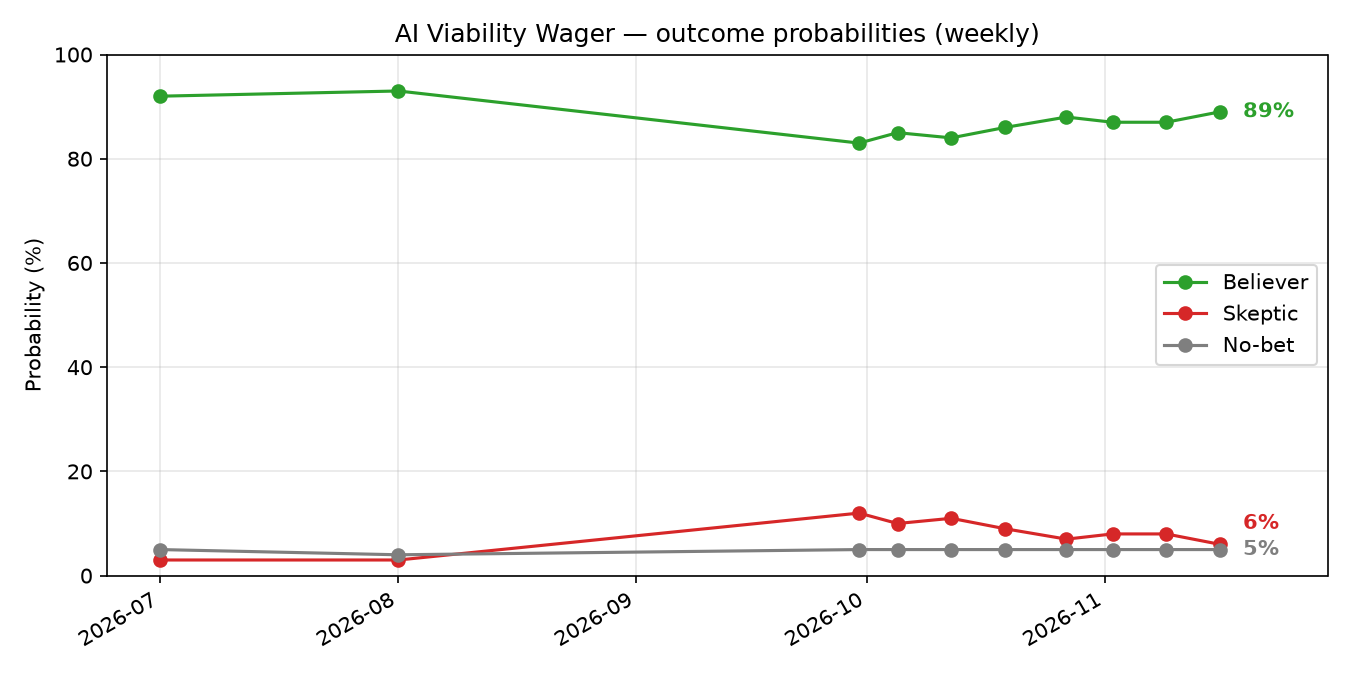
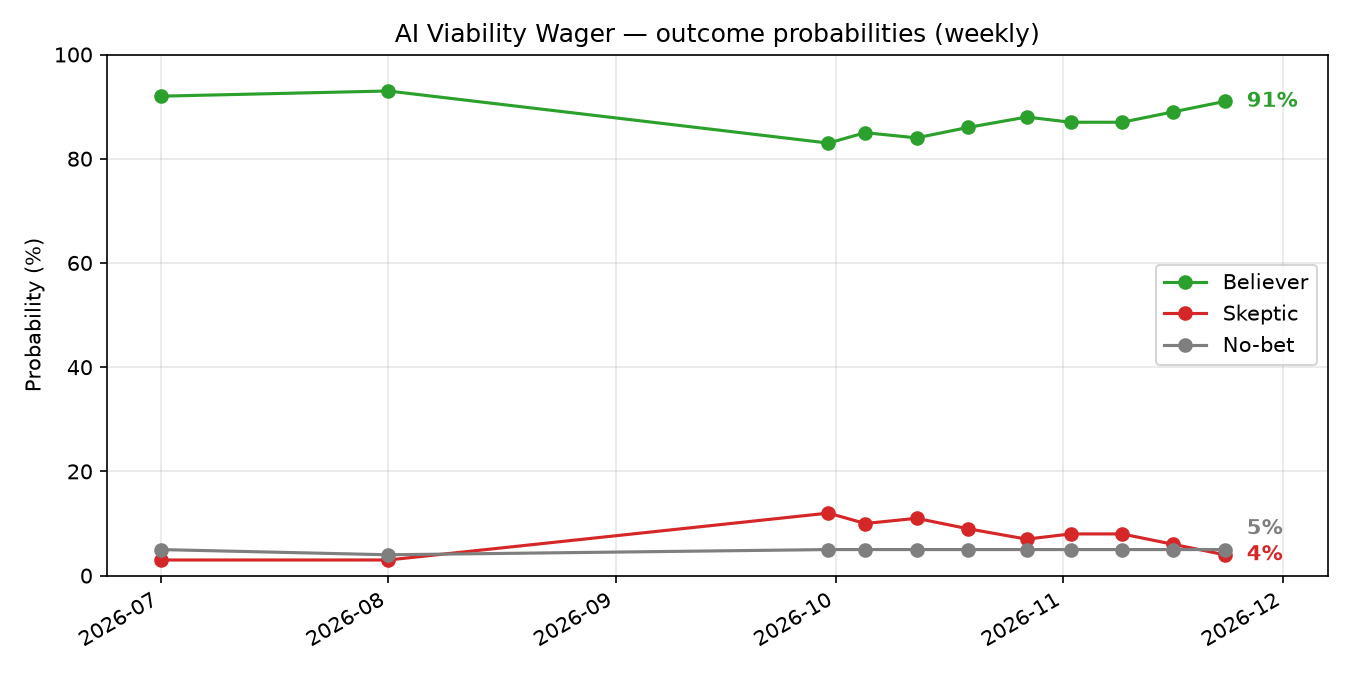
AI Viability Wager: add 2026-11-23 datapoint

diff --git a/ai-wager.md b/ai-wager.md
@@ -27,6 +27,12 @@ title: AI Viability Wager
 
 Newest first.
 
+### Nov 23, 2026
+
+- **Believer**: 91% &nbsp;&nbsp; **Skeptic**: 4% &nbsp;&nbsp; **No‑bet**: 5%
+- Anthropic priced the largest IPO ever at $83 a share, raising $81.3B plus a $26B private placement; ANT opened at $111.50 on Nov 19 and ended its first week at $88.91, still above the offer, as Jensen Huang's ouster at Nvidia and rate worries hit AI stocks (Anthropic, CNBC).
+- Oracle said its OpenAI infrastructure contract is fully funded after a $20B stock-and-notes raise, easing financing doubts, while OpenAI's Q3 adjusted operating loss widened to $10.9B and California's attorney general sued it over AI safety lapses (Oracle, Reuters/WSJ).
+
 ### Nov 16, 2026
 
 - **Believer**: 89% &nbsp;&nbsp; **Skeptic**: 6% &nbsp;&nbsp; **No‑bet**: 5%
